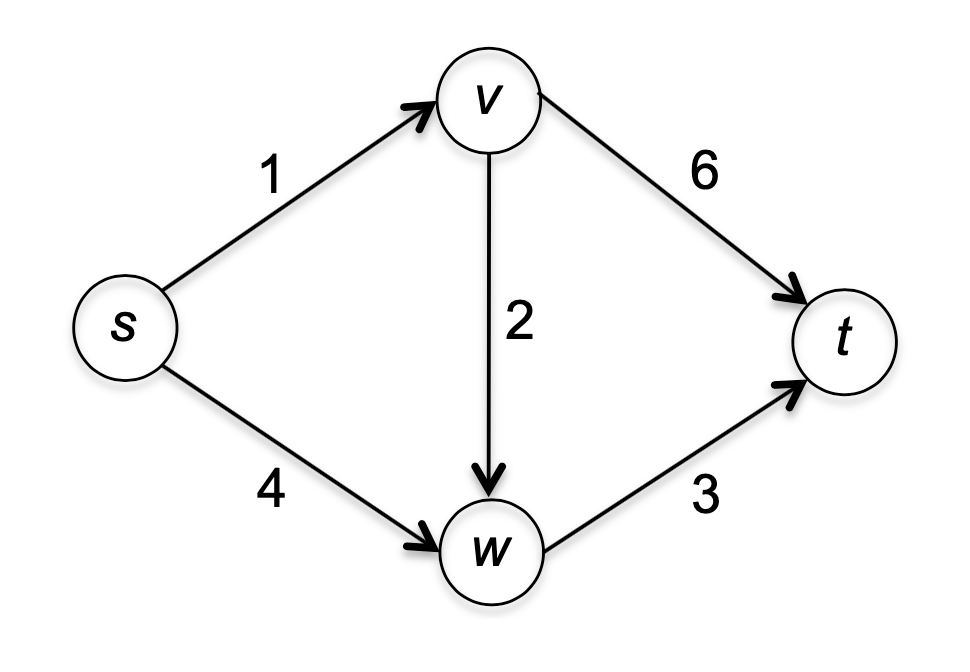
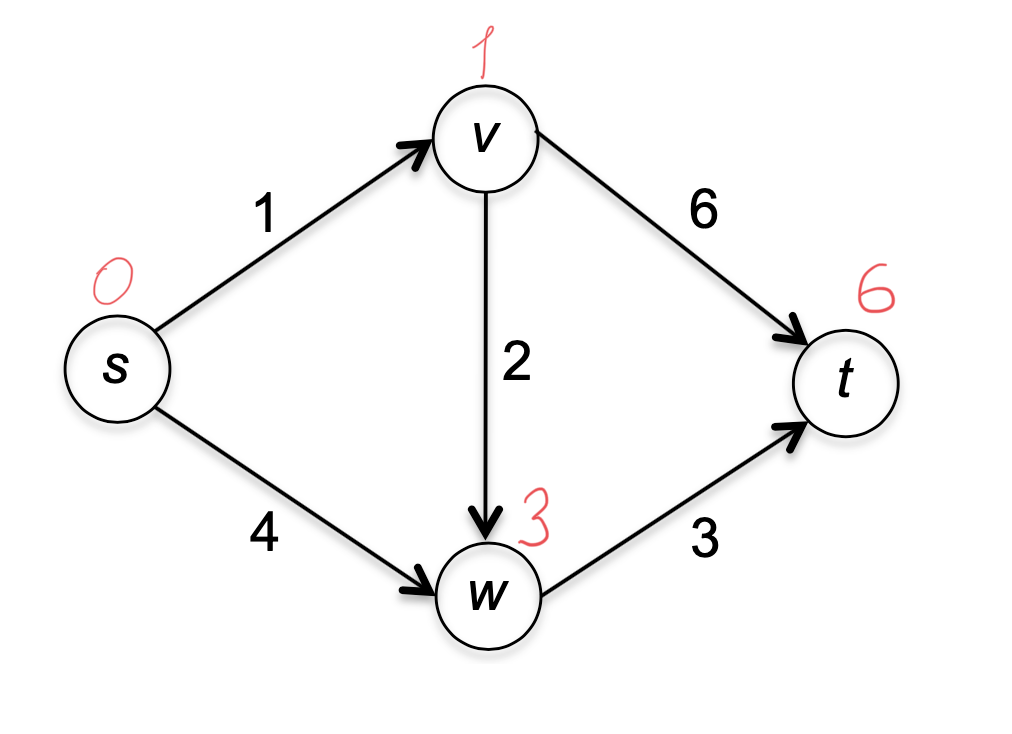
9 Straitforward Dijkstra

Changed region(s): [[0.0619, 0.0312, 0.9278, 0.9062]]

diff --git a/src/Algorithms Elluminated Part2/9 Dijkstra’s Shortest-Path Algorithm/Straitforward-Dijkstra.ts b/src/Algorithms Elluminated Part2/9 Dijkstra’s Shortest-Path Algorithm/Straitforward-Dijkstra.ts
@@ -30,25 +30,45 @@ const T: DirectedVertex = {
   in_edges: ['VT', 'WT'],
 };
 
-const _SV: DirectedEdge = { id: 'SV', source: 'S', target: 'V' };
-const _SW: DirectedEdge = { id: 'SW', source: 'S', target: 'W' };
-const _VW: DirectedEdge = { id: 'VW', source: 'V', target: 'W' };
-const _VT: DirectedEdge = { id: 'VT', source: 'V', target: 'T' };
-const _WT: DirectedEdge = { id: 'WT', source: 'W', target: 'T' };
+const _SV: DirectedEdge = { id: 'SV', source: 'S', target: 'V', length: 1 };
+const _SW: DirectedEdge = { id: 'SW', source: 'S', target: 'W', length: 4 };
+const _VW: DirectedEdge = { id: 'VW', source: 'V', target: 'W', length: 2 };
+const _VT: DirectedEdge = { id: 'VT', source: 'V', target: 'T', length: 6 };
+const _WT: DirectedEdge = { id: 'WT', source: 'W', target: 'T', length: 3 };
 
 const graph: DirectedGraph = {
   vertices: [S, V, W, T],
   edges: [_SV, _SW, _VW, _VT, _WT],
 };
 
-export function StraitforwardDijkstra(graph: DirectedGraph, start: DirectedVertex): DirectedVertex[] {
-  const verticesMap = getVerticesMap(graph);
+export function StraightforwardDijkstra(graph: DirectedGraph, start: DirectedVertex): DirectedVertex[] {
+  const verticesMap = getVerticesMap(graph, v => {
+    v.length = Infinity;
+    V.out_edges = [];
+    return v;
+  });
   const edgesMap = getEdgeMap(graph);
-  const X: DirectedVertex[] = [start];
-  for (let i = 0; i < X.length; i++) {
-    const element = X[i];
+  let edges = [...start.out_edges!];
+  while (edges.length > 0) {
+    let minEdge: DirectedEdge = edgesMap[edges[0]];
+    for (let e = 0; e < edges.length; e++) {
+      const edge: DirectedEdge = edgesMap[edges[e]];
+      const source: DirectedVertex = verticesMap[edge.source];
+      const edgeScore = source.length! + edge.length!;
+      if (edgeScore < minEdge.score!) {
+        minEdge = edge;
+      }
+    }
+    const source = verticesMap[minEdge.target];
+    const target = verticesMap[minEdge.target];
+    target.length = source.length! + minEdge.length!;
+    edges = [...edges, ...target.out_edges!];
   }
+
   return [start];
 }
 
-console.log('Print nodes in boustrophedon order: ', JSON.stringify(BFS(graph, v1).map(v => `${v.id}`)));
+console.log(
+  'Print shortest path from start vertex to other vertices in graph: ',
+  JSON.stringify(StraightforwardDijkstra(graph, S).map(v => `${v.id}-${v.length}`))
+);

diff --git a/src/Algorithms Elluminated Part2/Graph.ts b/src/Algorithms Elluminated Part2/Graph.ts
@@ -1,13 +1,14 @@
 type id = string | number;
 
 export interface Edge {
-  value?: number;
+  length?: number;
+  score?: number;
   id: id;
 }
 
 export interface Vertex {
   id: id;
-  score?: number;
+  length?: number;
   explored?: boolean;
   connectedComponentsIndex?: number;
   layer?: number;
